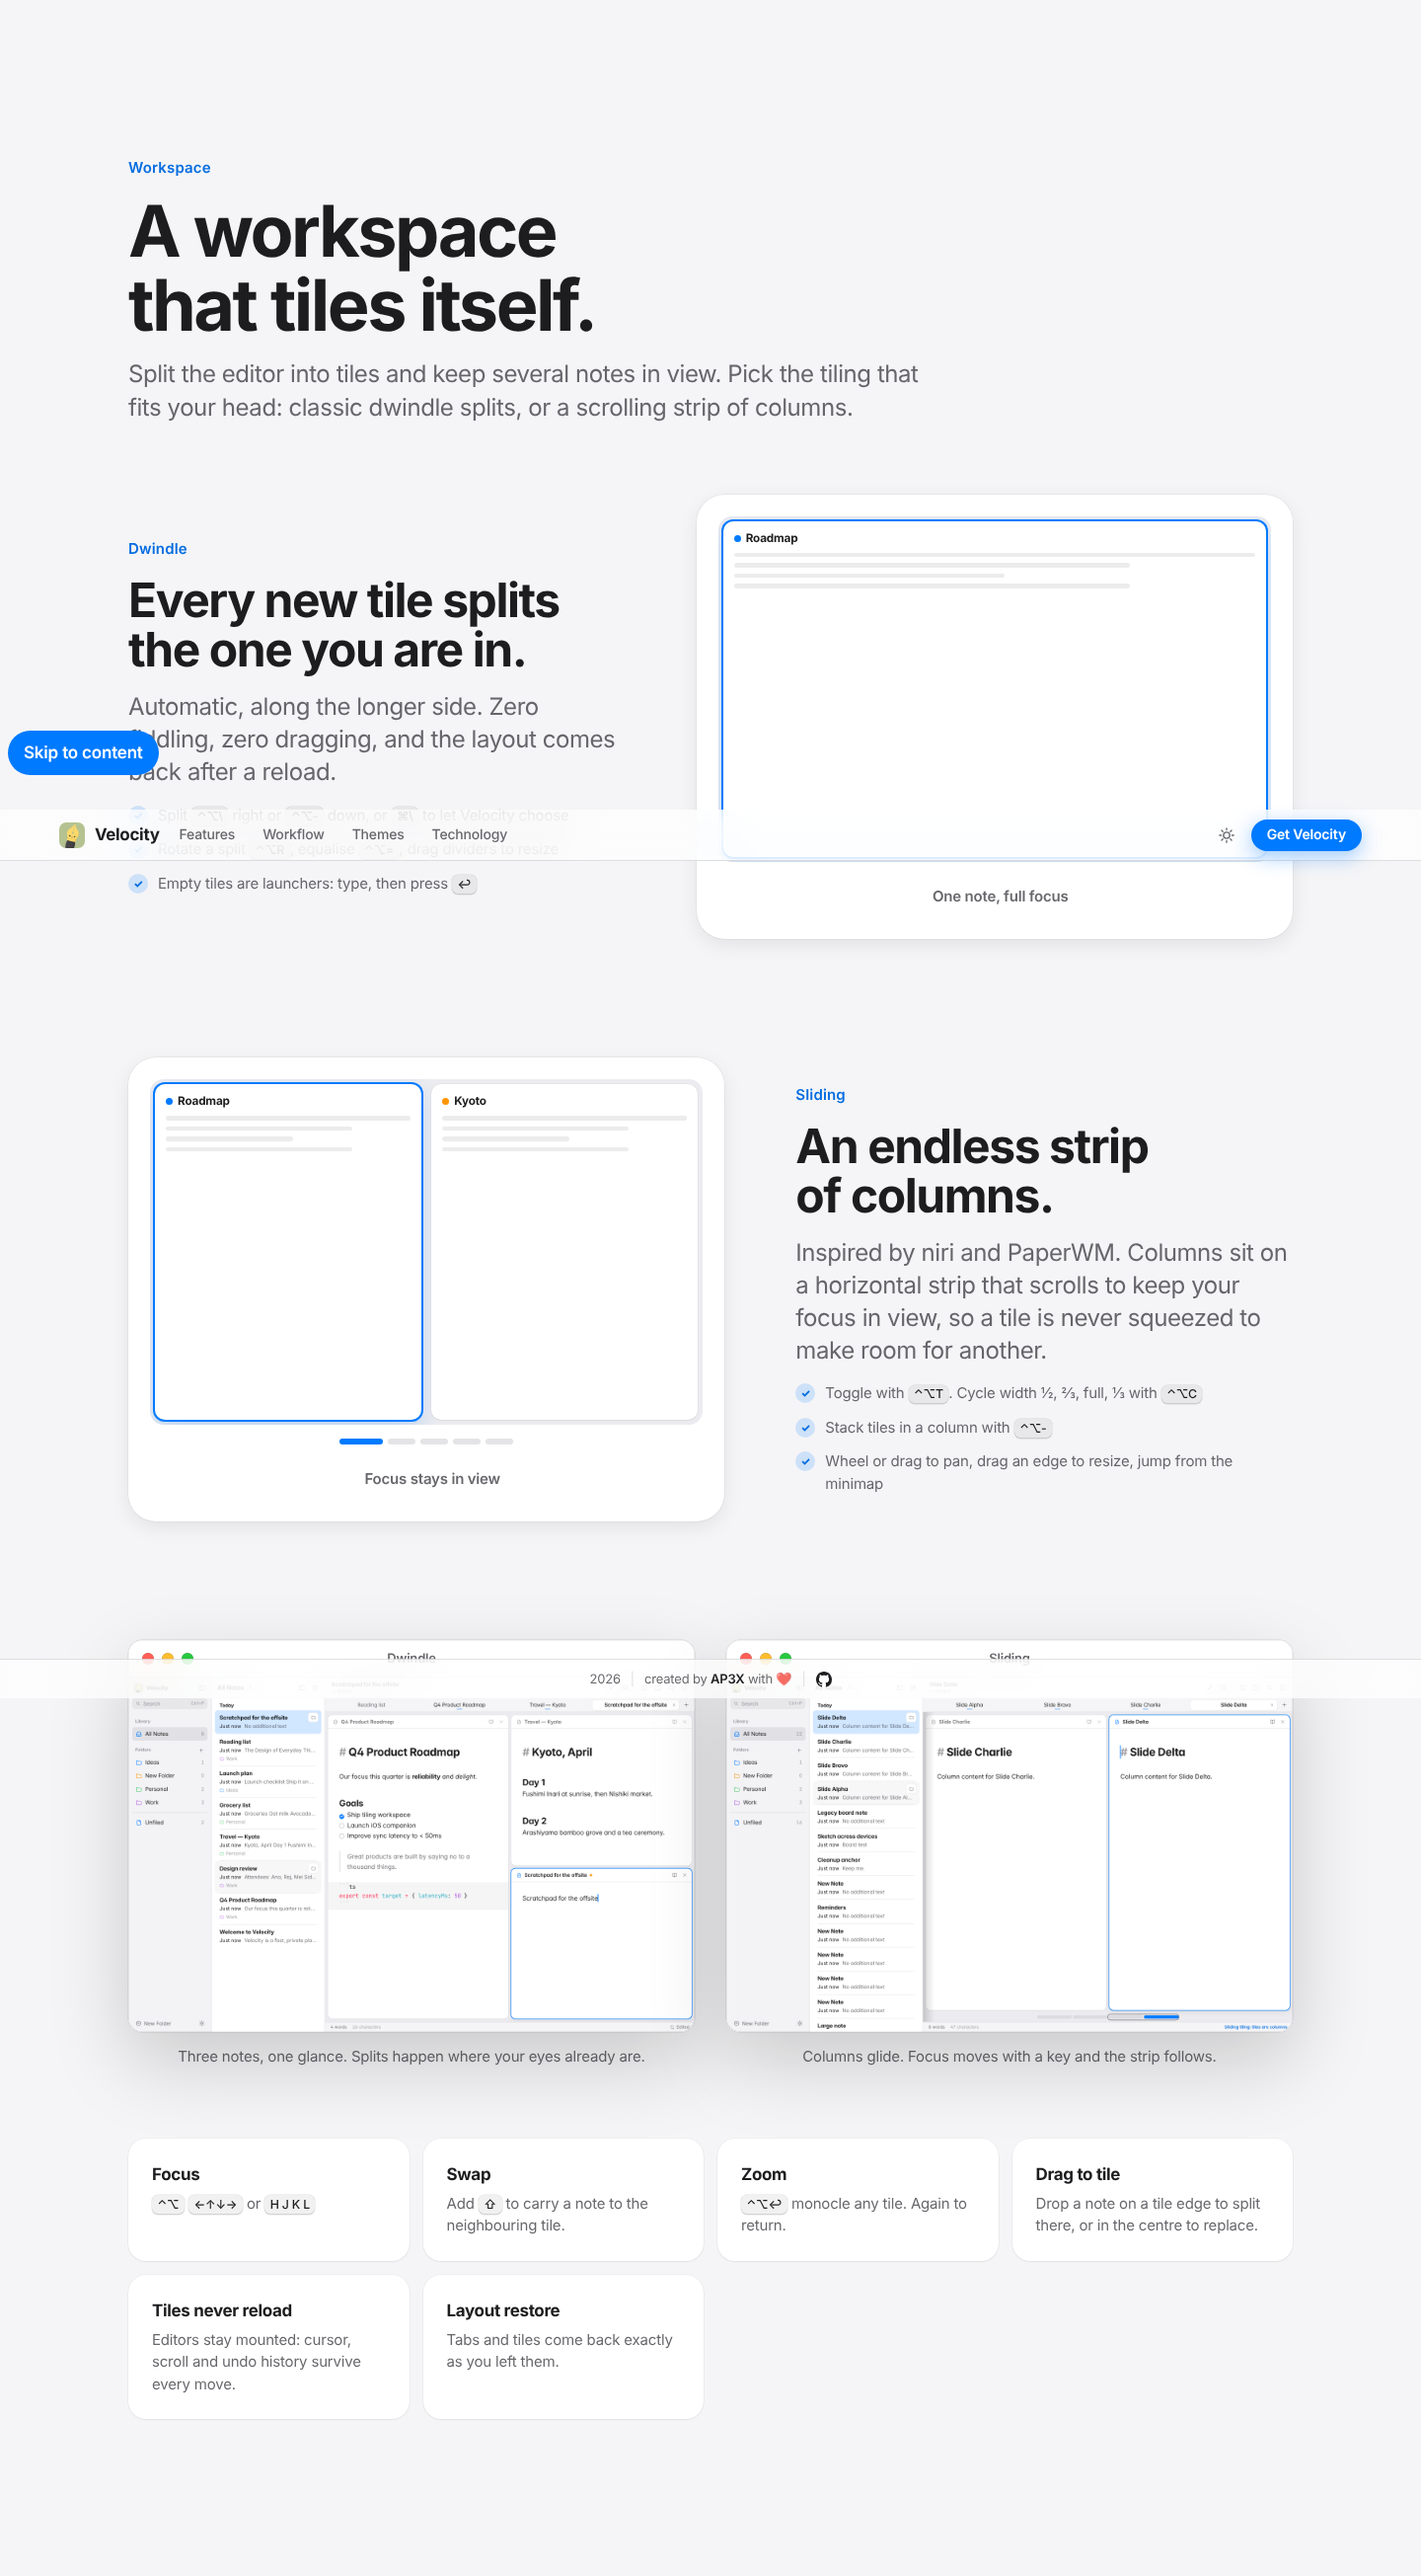
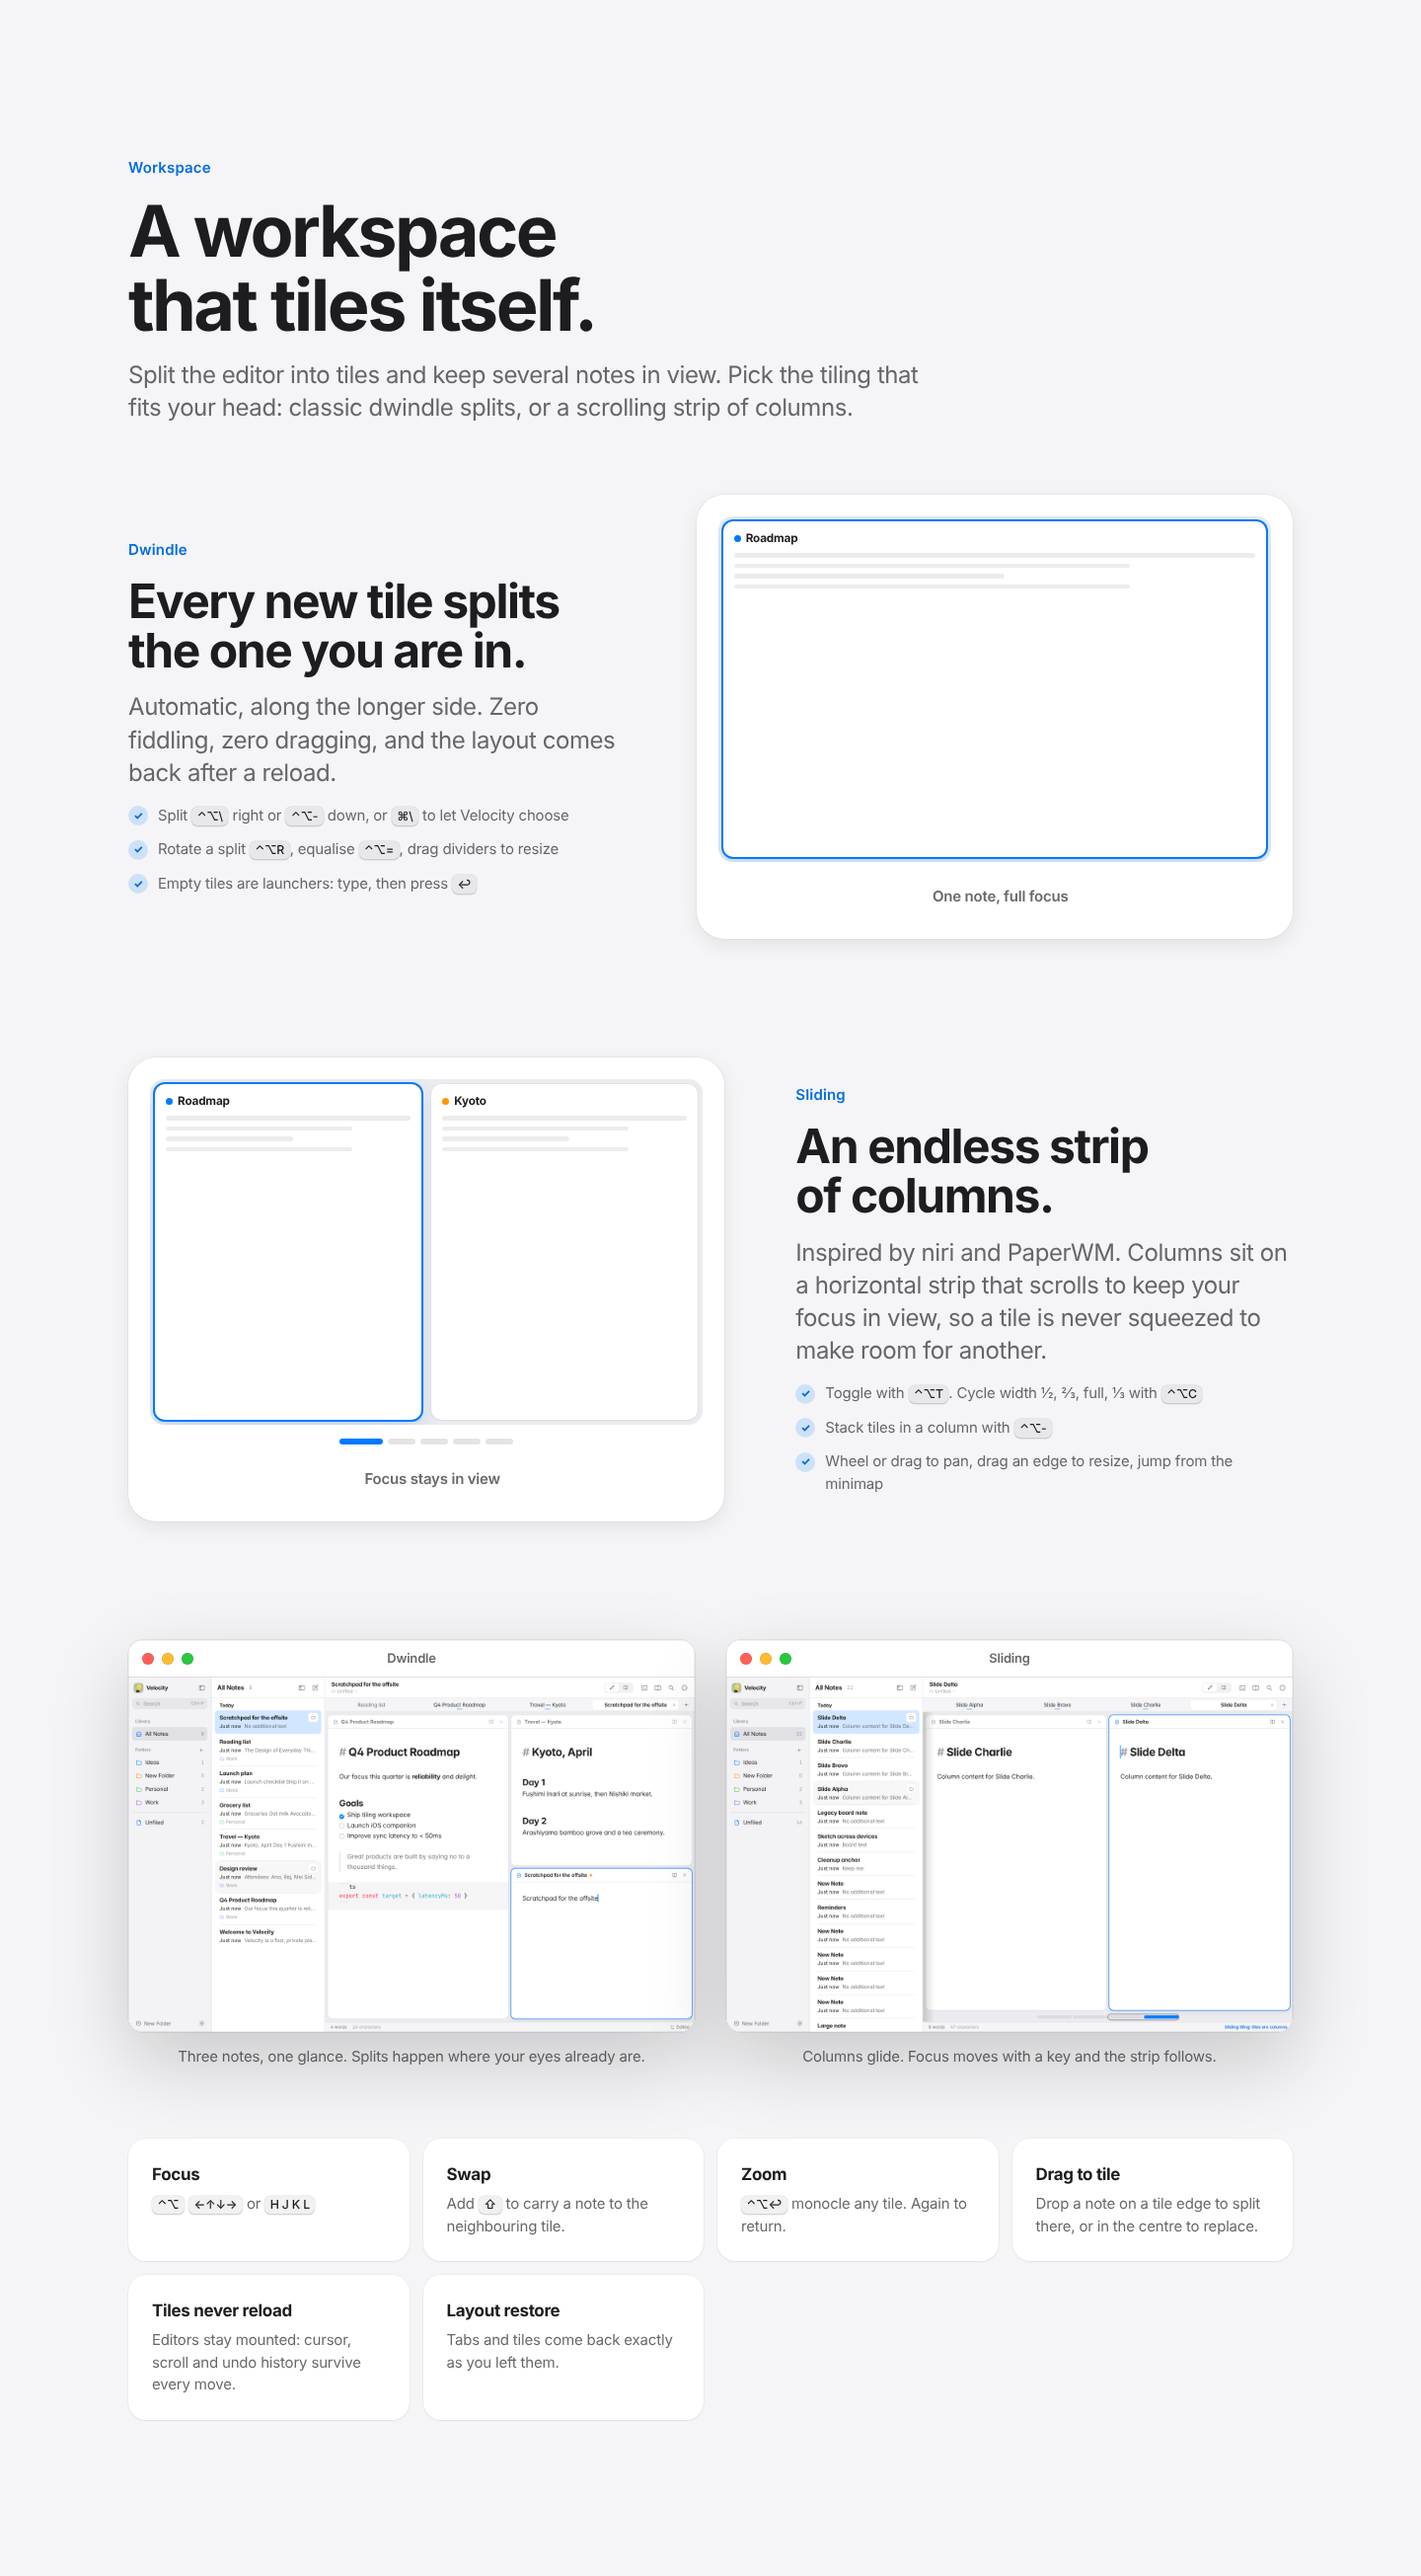
fix(landing): keep keycaps clear of text, raise hero window, clean section shots
Claude-Session: https://claude.ai/code/session_01SFBe6TrWmF3NhT952hfFU9

diff --git a/landing/index.html b/landing/index.html
@@ -91,7 +91,6 @@
               View on GitHub
             </a>
           </div>
-          <p class="hero__fine" data-reveal style="--i: 7">Self-hosted. Your notes live on your own disk.</p>
         </div>
 
         <div class="container container--wide hero__stage" id="hero-stage">
@@ -101,7 +100,6 @@
             <div class="fk fk--2"><span class="keycap-group"><span class="keycap">⌃</span><span class="keycap">⌥</span><span class="keycap">→</span></span></div>
             <div class="fk fk--3"><span class="keycap-group"><span class="keycap">⌃</span><span class="keycap">⌥</span><span class="keycap">\</span></span></div>
             <div class="fk fk--4"><span class="keycap-group"><span class="keycap">⌘</span><span class="keycap">E</span></span></div>
-            <div class="fk fk--5"><span class="keycap-group"><span class="keycap">⌃</span><span class="keycap">⌥</span><span class="keycap">T</span></span></div>
           </div>
           <div class="mac hero__window" id="hero-window">
             <div class="mac__bar">
@@ -507,8 +505,8 @@
             </article>
             <article class="tcard" data-reveal style="--i: 6">
               <svg class="tcard__ico" viewBox="0 0 24 24" fill="none" stroke="currentColor" stroke-width="1.7" stroke-linecap="round" stroke-linejoin="round" aria-hidden="true"><rect x="3.5" y="3.5" width="17" height="17" rx="5" /><path d="M9 9.5h.01M15 9.5h.01M8.5 14.5c1 1.4 2.2 2 3.5 2s2.5-.6 3.5-2" /></svg>
-              <h3>Designed with Apple Human Interface principles</h3>
-              <p>Semantic colour, vibrancy, quiet motion and generous targets. It feels native because it follows the same rules.</p>
+              <h3>Human-interface native</h3>
+              <p>Designed with Apple Human Interface principles: semantic colour, vibrancy, quiet motion and generous targets. It feels native because it follows the same rules.</p>
             </article>
           </div>
           <p class="tech__fine" data-reveal>Built on React, CodeMirror 6, Zustand, FlexSearch, Hono and SQLite.</p>

diff --git a/landing/styles/sections.css b/landing/styles/sections.css
@@ -5,7 +5,7 @@
 /* ------------------------------------------------------------------ */
 .hero {
   position: relative;
-  padding-top: clamp(36px, 6vw, 72px);
+  padding-top: clamp(24px, 3vw, 36px);
   padding-bottom: clamp(24px, 4vw, 56px);
   overflow: clip;
   text-align: center;
@@ -58,7 +58,7 @@
   z-index: 2;
   display: grid;
   justify-items: center;
-  gap: 24px;
+  gap: 18px;
 }
 .hero__pill {
   display: inline-flex;
@@ -115,7 +115,7 @@
   }
 }
 .hero__lead {
-  max-width: 40ch;
+  max-width: 54ch;
 }
 .hero__cta {
   justify-content: center;
@@ -128,7 +128,7 @@
 .hero__stage {
   position: relative;
   z-index: 1;
-  margin-top: clamp(32px, 4.5vw, 56px);
+  margin-top: clamp(24px, 2.4vw, 32px);
   perspective: 2000px;
   perspective-origin: 50% 0;
   --p: 0;
@@ -235,18 +235,15 @@
   }
 }
 @media (max-width: 899px) {
-  .fk--3,
-  .fk--4,
-  .fk--5 {
+  .fk--1,
+  .fk--2,
+  .fk--3 {
     display: none;
   }
-  .fk--1 {
-    left: 2%;
-    top: -9%;
-  }
-  .fk--2 {
-    right: 2%;
-    top: -7%;
+  .fk--4 {
+    --kc-h: 28px;
+    right: 6%;
+    bottom: -14px;
   }
 }
 

diff --git a/client/e2e-landing/landing.spec.ts b/client/e2e-landing/landing.spec.ts
@@ -26,6 +26,7 @@ async function settle(page: Page) {
     }
     window.scrollTo(0, 0)
   })
+  await page.evaluate(() => (document.activeElement as HTMLElement | null)?.blur())
   await page.waitForTimeout(900)
 }
 
@@ -36,7 +37,10 @@ async function shot(page: Page, name: string, selector?: string) {
     const el = page.locator(selector).first()
     await el.scrollIntoViewIfNeeded()
     await page.waitForTimeout(1200)
+    // Hide fixed chrome in the capture only; the real page keeps nav, credit strip and skip link.
+    const hide = await page.addStyleTag({ content: '.nav,.credit,.skip-link,.nav__sheet{visibility:hidden!important}' })
     await el.screenshot({ path: file })
+    await hide.evaluate((n) => n.remove())
   } else {
     await page.screenshot({ path: file })
   }

diff --git a/landing/styles/tokens.css b/landing/styles/tokens.css
@@ -13,7 +13,7 @@
   --font-mono: ui-monospace, 'SF Mono', 'JetBrains Mono', 'Menlo', 'Cascadia Code', 'Consolas', monospace;
 
   /* Marketing type ramp (HIG large-title scale, stretched for the web) */
-  --text-display: clamp(2.75rem, 1.2rem + 6.4vw, 5.75rem);
+  --text-display: clamp(2.75rem, 1.2rem + 5.6vw, 5.25rem);
   --text-h1: clamp(2.25rem, 1.3rem + 4vw, 4.5rem);
   --text-h2: clamp(1.75rem, 1.2rem + 2.2vw, 3rem);
   --text-title: clamp(1.25rem, 1.1rem + 0.6vw, 1.625rem);
